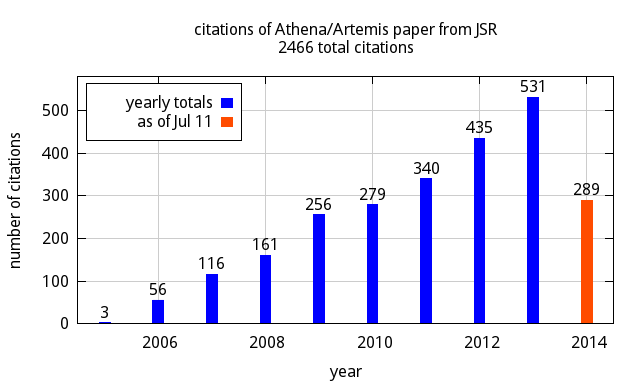
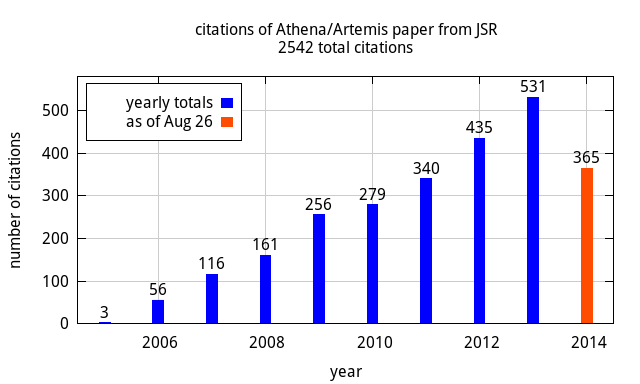
added fuzy degen paper to citations
added press coverage for diamond/polycap paper
updated citations

diff --git a/cv.tex b/cv.tex
@@ -133,7 +133,7 @@
   training materials.  Several times each year, I teach XAS training
   courses at synchrotrons and other institutions around the
   world. \newline{} The publication introducing the software has over
-  2450 citations as of July, 2014, making it the highest cited
+  2540 citations as of August, 2014, making it the highest cited
   article in the Journal of Synchrotron Radiation.}
 
 \cvline{Inform XAS analysis using local structure theory}%
